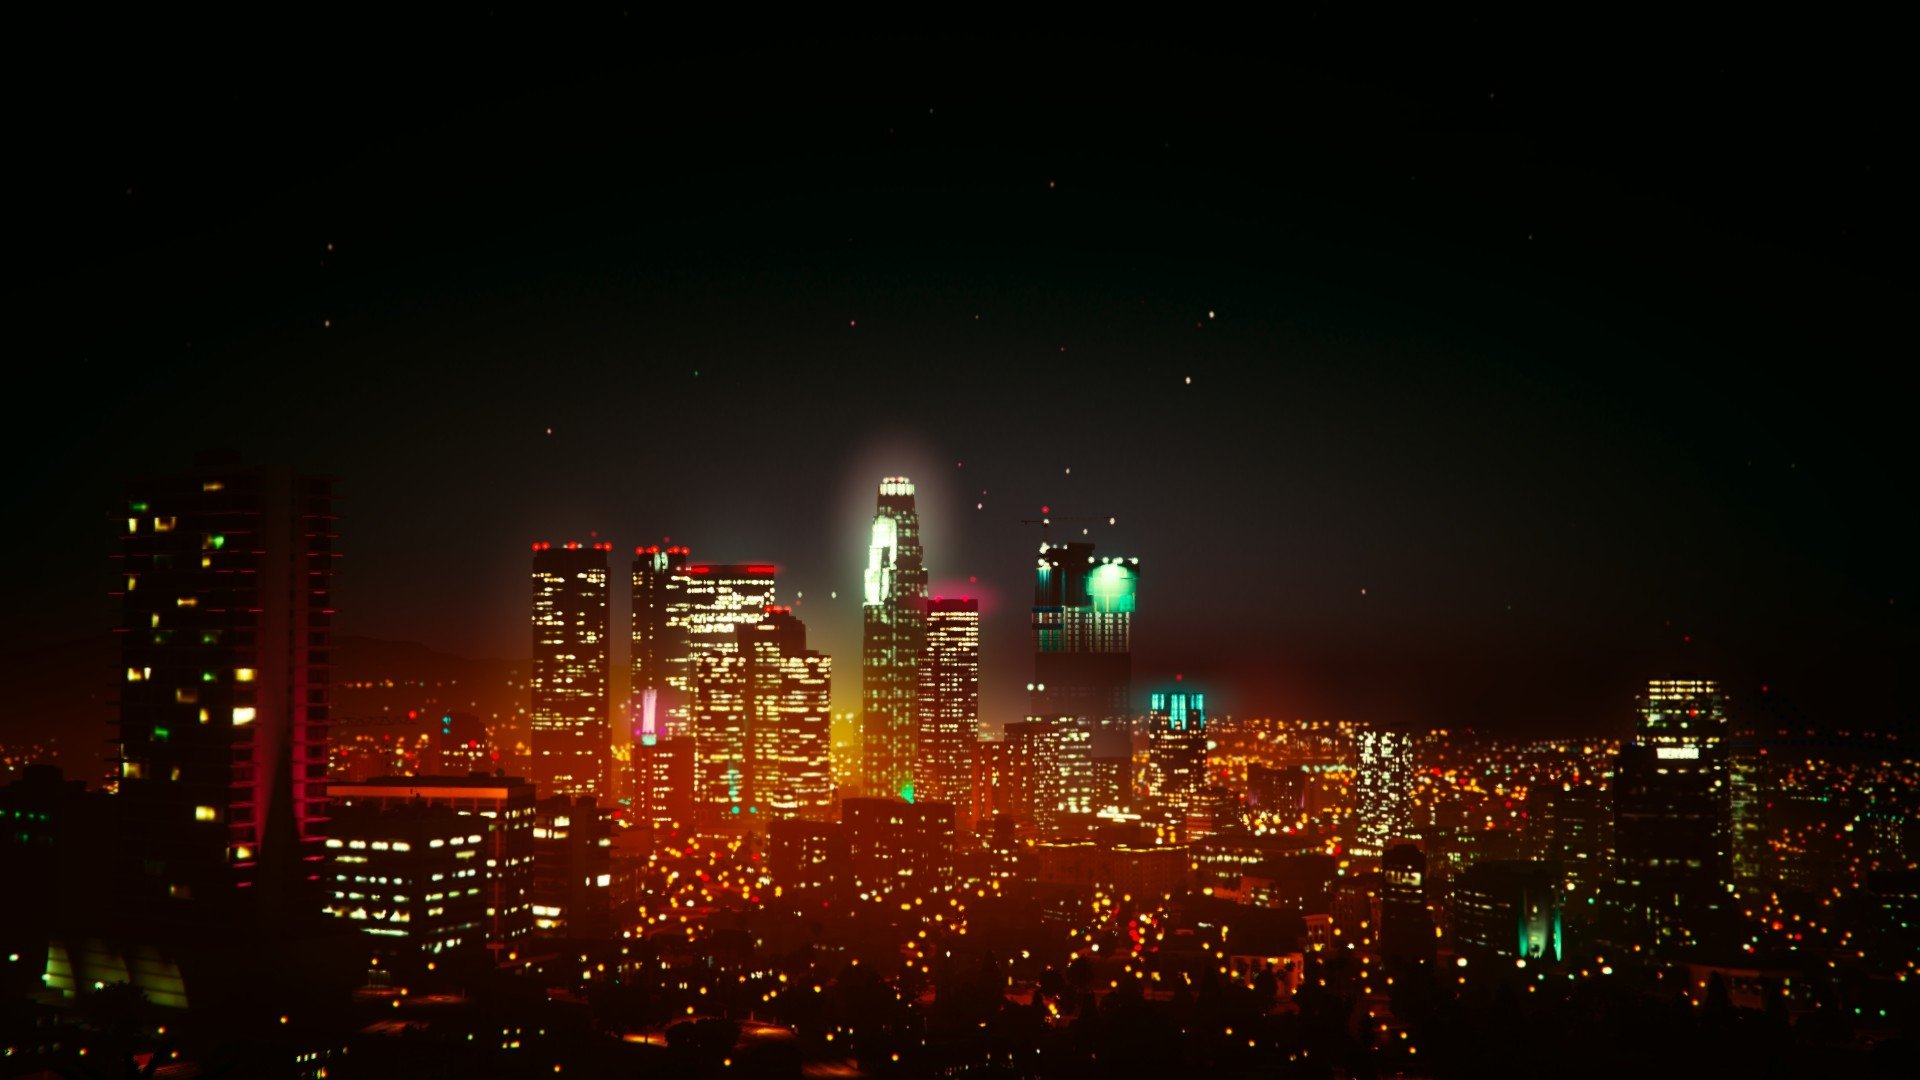
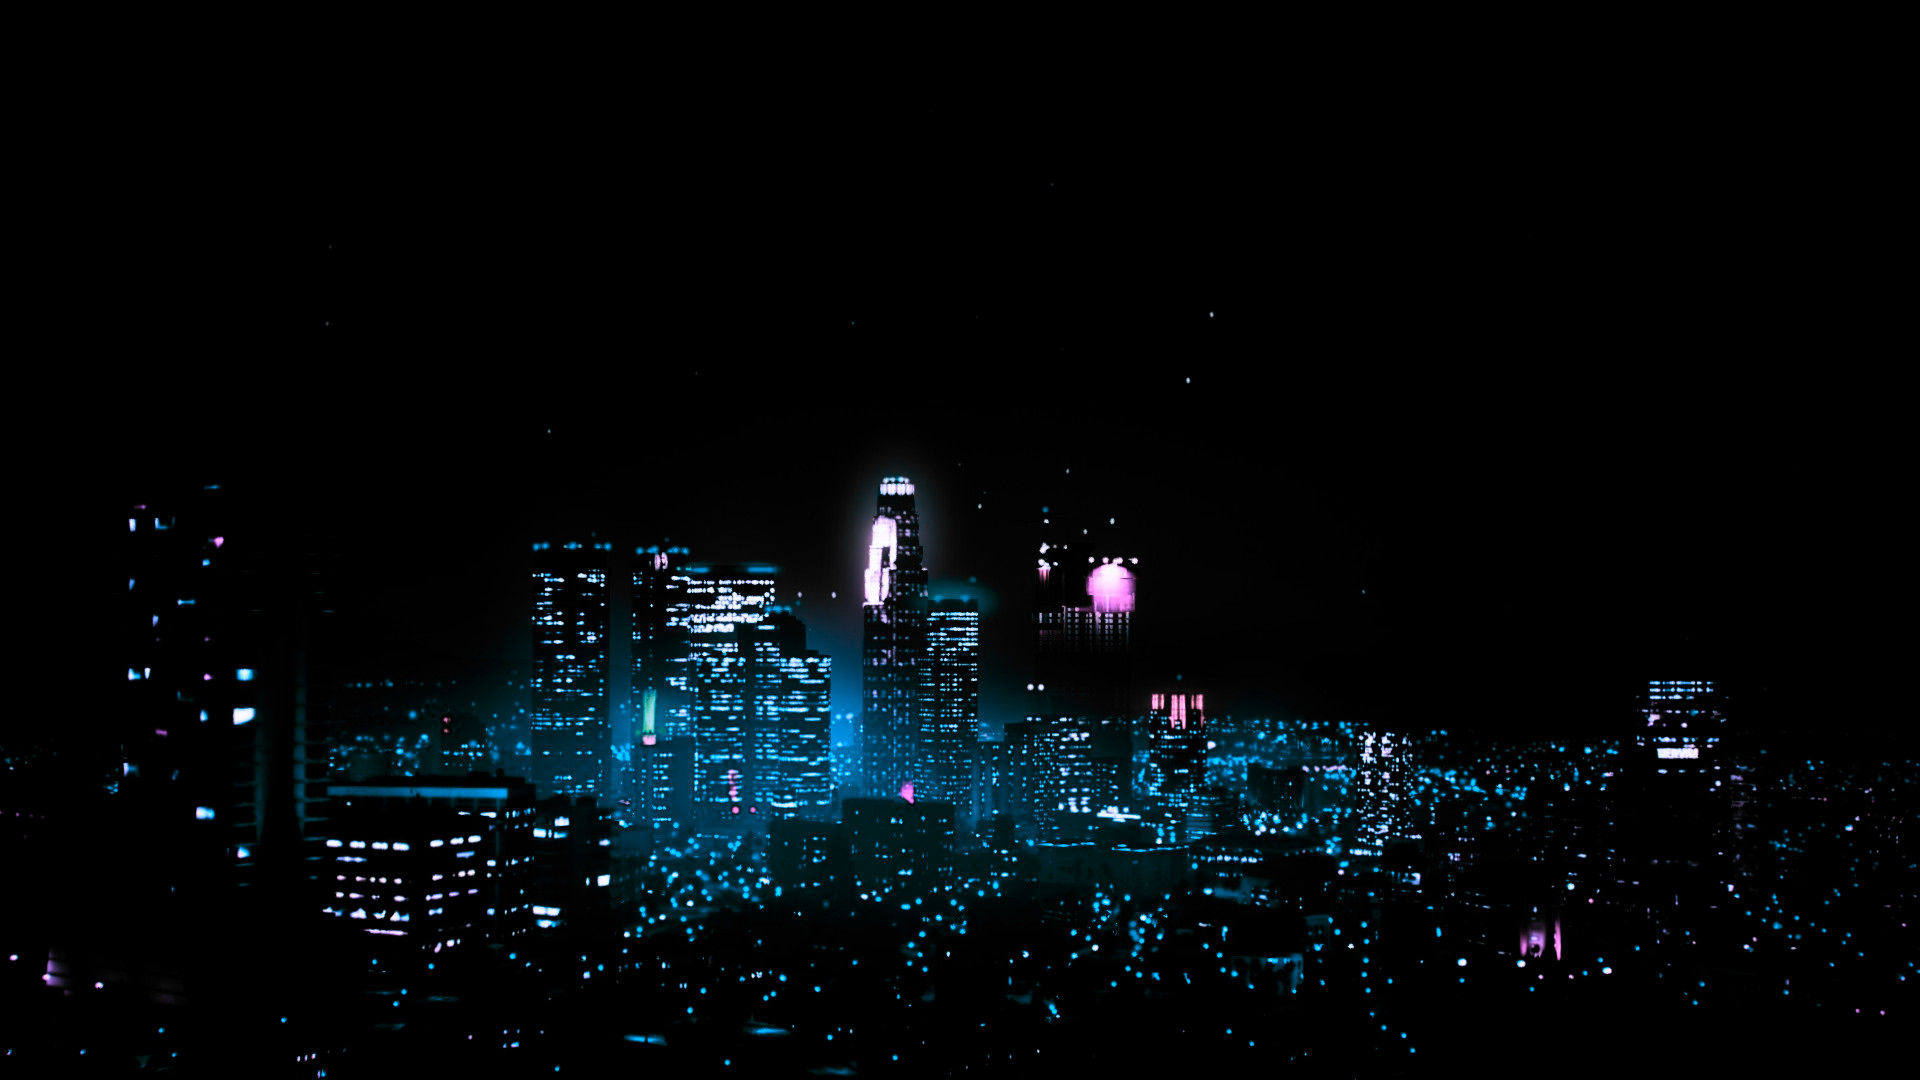
0

diff --git a/css/gtavonline.css b/css/gtavonline.css
@@ -78,7 +78,7 @@ body
     padding: 0;
     width: 100%;
     font-family: 'Noto Sans', sans-serif;
-    background-image: url("../img/gtavonline/tlogta5.jpg");
+    background-image: url("../img/gtavonline/tlogta5-2.jpg");
     background-attachment: fixed;
     color: #ffffff;
 }
@@ -136,14 +136,16 @@ main
     display: block;
     margin: 0 auto;
     color: #ffffff;
-    /* background-color: #ffffff; */
+    /* background-color: rgba(0, 0, 0, 0.6); */
 }
 
 #main-content
 {
     max-width: 1200px;
     margin: 0 auto;
-    padding: 10px;
+    padding: 100px;
+    background-color: rgba(0, 0, 0, 0.6);
+    backdrop-filter: blur(4px);
 }
 
 #main-content section

diff --git a/index.html b/index.html
@@ -177,7 +177,7 @@
                 </div>
                 <div class="gtav-pakiety">Dostępne sposoby płatności</div>
                 <div class="gtav-info">
-                    <div style="color: #01942d;">PaySafeCard, SMS, PayPal, Przelew Bankowy, Blik, Skrill, GPay, Dotpay, Bitcoin, Etherium
+                    <div style="color: #00df43;">PaySafeCard, SMS, PayPal, Przelew Bankowy, Blik, Skrill, GPay, Dotpay, Bitcoin, Etherium
                     </div>
                 </div>
                 <div><img style="max-width: 100%;" src="img/gtavonline/pscpaypavisamas.png" alt="Płatności"></div>
